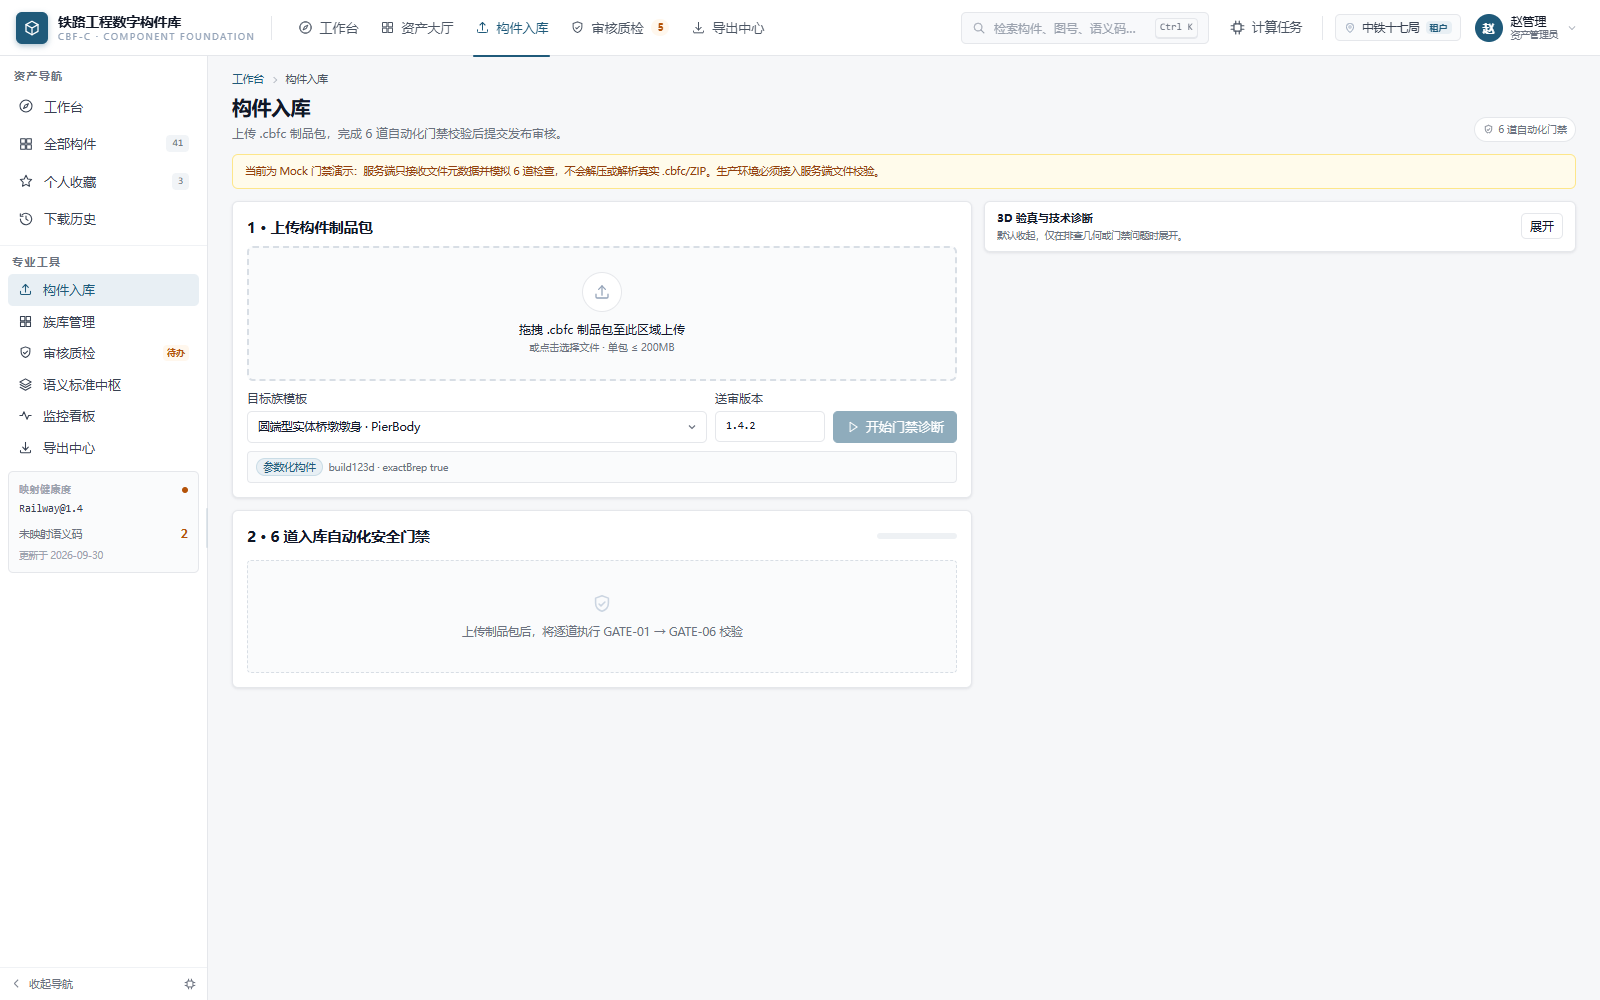
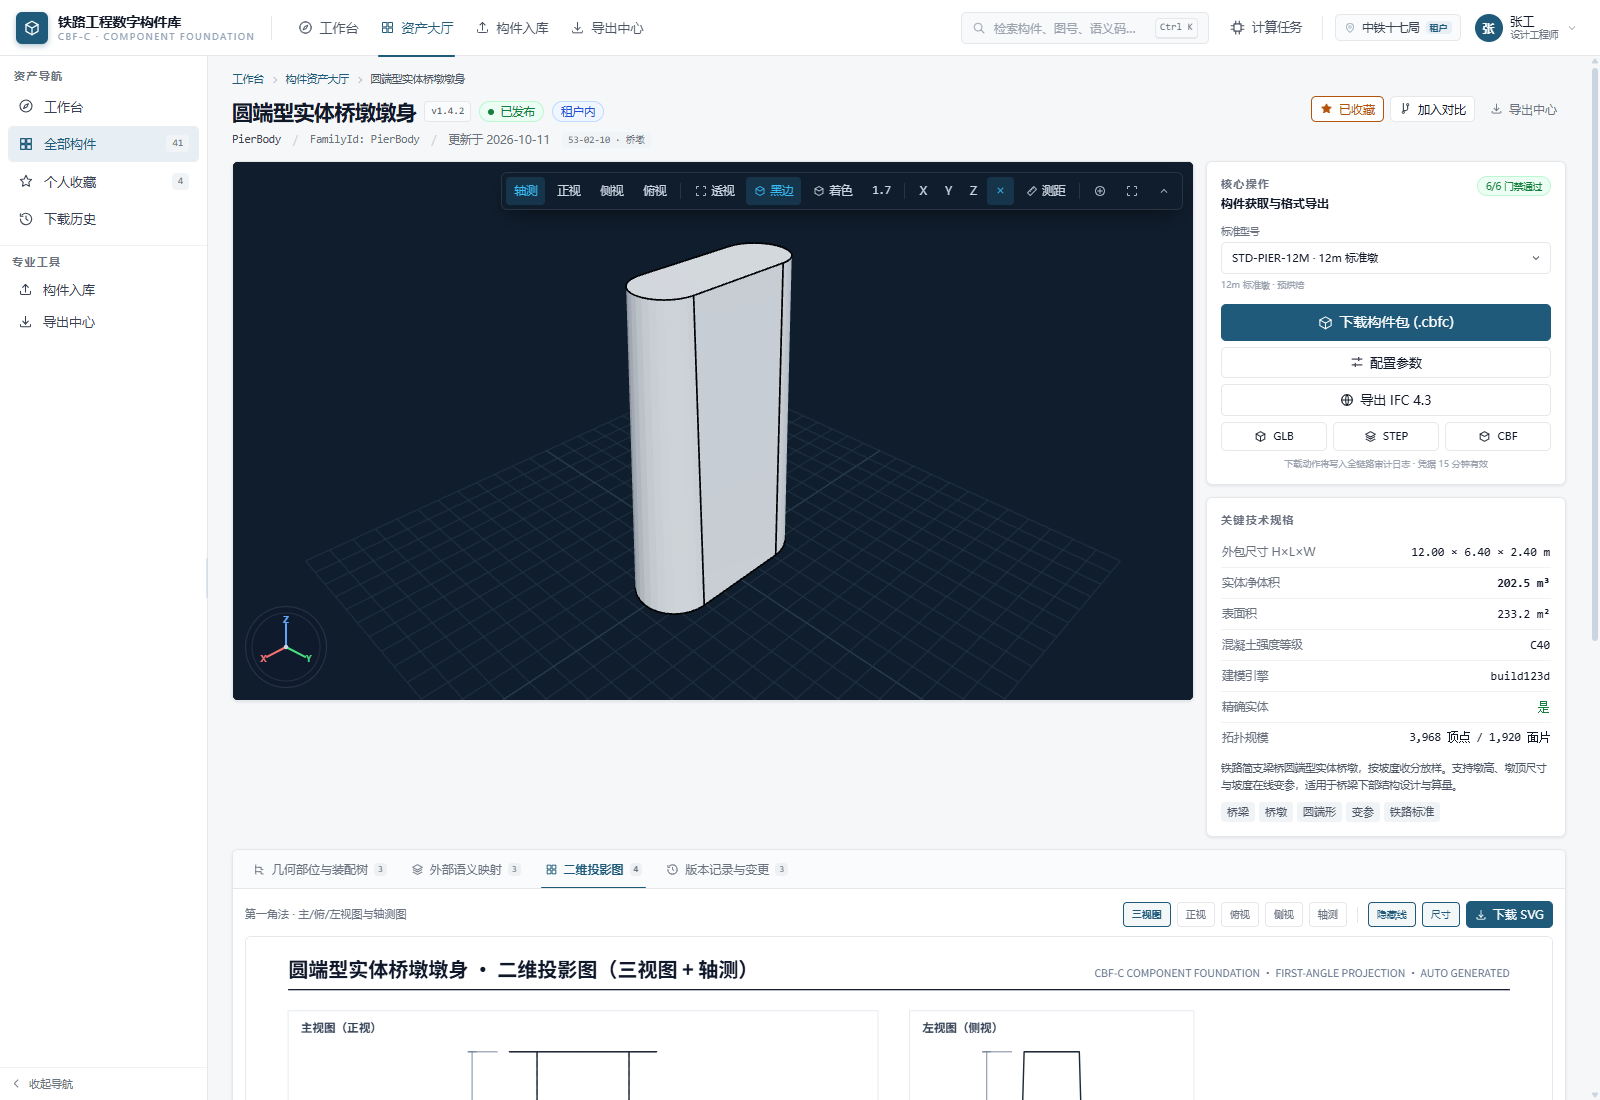
chore(cbfc-web): remove implementation hints from UI copy

diff --git a/cbfc-web/src/views/SemanticsView.vue b/cbfc-web/src/views/SemanticsView.vue
@@ -96,7 +96,7 @@ async function runSandbox() {
     sandboxProfile.value = result.profile;
     sandboxAt.value = result.resolvedAt;
   } catch (error) {
-    ui.notify({ type: 'error', title: '服务端推演失败', message: String(error) });
+    ui.notify({ type: 'error', title: '推演失败', message: String(error) });
   } finally {
     sandboxLoading.value = false;
   }
@@ -118,7 +118,7 @@ async function previewComponent() {
       ui.notify({
         type: 'info',
         title: '权威推演完成',
-        message: `${result.mappings.length} 个部位，${result.unmapped.length} 项 unmapped（由服务端 Resolver 执行）。`,
+        message: `${result.mappings.length} 个部位，${result.unmapped.length} 项 unmapped（由标准解析引擎执行）。`,
       });
     }
   } catch (error) {
@@ -161,7 +161,7 @@ async function commitRules(rules: SemanticProfileRule[]) {
     editing.value = null;
     systemConfirmOpen.value = false;
     await runSandbox();
-    ui.notify({ type: 'success', title: '映射规则已保存', message: `服务端 Resolver 已刷新，当前存在 ${profile.value.unmappedCount} 项 unmapped。` });
+    ui.notify({ type: 'success', title: '映射规则已保存', message: `解析规则已刷新，当前存在 ${profile.value.unmappedCount} 项 unmapped。` });
   } catch (error) {
     ui.notify({ type: 'error', title: '保存失败', message: String(error) });
   } finally {
@@ -399,7 +399,7 @@ watch(
                 </div>
                 <button class="btn btn-primary btn-sm" :disabled="sandboxLoading" @click="previewComponent">
                   <span v-if="sandboxLoading" class="h-3 w-3 animate-spin rounded-full border-2 border-white/30 border-t-white" />
-                  <AppIcon v-else name="play" :size="12" />执行服务端推演
+                  <AppIcon v-else name="play" :size="12" />执行语义推演
                 </button>
                 <button class="btn btn-outline btn-sm" :disabled="sandboxLoading" @click="runSandbox">
                   <AppIcon name="refresh" :size="12" />全量语义码扫描
@@ -533,7 +533,7 @@ watch(
       </div>
       <template #footer>
         <div class="flex items-center justify-between">
-          <p class="text-[9.5px] text-muted">保存后由服务端 Resolver 立即生效</p>
+          <p class="text-[9.5px] text-muted">保存后立即生效</p>
           <div class="flex items-center gap-2">
             <button class="btn btn-ghost btn-sm" @click="editing = null">取消</button>
             <button class="btn btn-primary btn-sm" :disabled="saving" @click="saveRule">

diff --git a/cbfc-web/src/views/ComponentDetailView.vue b/cbfc-web/src/views/ComponentDetailView.vue
@@ -637,11 +637,6 @@ onMounted(async () => {
             >{{ tab.count }}</span>
             <span v-if="activeTab === tab.id" class="absolute inset-x-2 -bottom-px h-[2px] rounded-full bg-primary" />
           </button>
-          <div class="flex-1" />
-          <span class="hidden items-center gap-1 pr-2 text-[9px] text-[#9CA3AF] sm:flex">
-            <AppIcon name="info" :size="10" />
-            全部数据由服务端权威接口返回
-          </span>
         </div>
 
         <!-- Tab 1 -->
@@ -874,7 +869,7 @@ onMounted(async () => {
         <div v-else-if="activeTab === 'projection'" class="p-3">
           <div class="flex flex-wrap items-center justify-between gap-2">
             <p class="text-[11px] text-muted">
-              服务端网格 HLR 消隐投影 · 第一角法 · 主/俯/左视图与轴测图
+              第一角法 · 主/俯/左视图与轴测图
             </p>
             <div class="flex flex-wrap items-center gap-1.5">
               <button
@@ -916,13 +911,6 @@ onMounted(async () => {
               loading="lazy"
             />
           </div>
-          <p class="mt-2 flex flex-wrap items-center gap-x-3 gap-y-1 text-[9.5px] text-[#9CA3AF]">
-            <span>实线 = 可见轮廓</span>
-            <span>虚线 = 消隐轮廓</span>
-            <span>尺寸单位 mm</span>
-            <span>图像上方 = 模型 +Z</span>
-            <span class="mono">生成端点 /projection.svg</span>
-          </p>
         </div>
 
         <!-- Tab 5 -->

diff --git a/cbfc-web/src/views/LoginView.vue b/cbfc-web/src/views/LoginView.vue
@@ -27,7 +27,7 @@ const stats = [
   { value: '24', label: '纳管构件' },
   { value: '6/6', label: '门禁通过' },
   { value: '≤ 300ms', label: '检索 P95' },
-  { value: '100%', label: '零拷贝解码' },
+  { value: '100%', label: '模型解码成功' },
 ];
 
 async function enter(role: string) {
@@ -141,7 +141,7 @@ const currentYear = computed(() => new Date().getFullYear());
           </p>
           <ul class="mt-1.5 space-y-1 text-[9.5px] leading-relaxed text-muted">
             <li>· 无需密码，身份仅用于演示 RBAC 权限边界与差异化工作台。</li>
-            <li>· 构件几何、体积与 cacheKey 均由服务端实时计算，非静态截图。</li>
+            <li>· 构件几何、体积与模型数据均为运行时真实计算，非静态截图。</li>
             <li>· 可在顶栏头像菜单中随时切换身份。</li>
           </ul>
         </div>

diff --git a/cbfc-web/src/views/LibraryView.vue b/cbfc-web/src/views/LibraryView.vue
@@ -576,7 +576,7 @@ function onDrop(event: DragEvent) {
   ui.notify({
     type: 'info',
     title: '已接收几何文件',
-    message: `${file.name}（${(file.size / 1024 / 1024).toFixed(2)} MB）\n外部文件特征提取需 OCCT Worker；当前请选择参考构件执行几何相似检索。`,
+    message: `${file.name}（${(file.size / 1024 / 1024).toFixed(2)} MB）\n外部文件解析暂未开放；当前请选择参考构件执行几何相似检索。`,
   });
 }
 
@@ -932,7 +932,7 @@ onBeforeUnmount(() => {
               @dragleave="dragOver = false"
               @drop.prevent="onDrop"
             >
-              <AppIcon name="upload" :size="11" />拖入 .step/.cbf 需 OCCT Worker
+              <AppIcon name="upload" :size="11" />外部文件解析暂未开放
             </div>
           </div>
 

diff --git a/cbfc-web/src/views/FamiliesView.vue b/cbfc-web/src/views/FamiliesView.vue
@@ -496,7 +496,7 @@ function presetSummary(family: FamilyAdminView, preset: Preset) {
       </div>
       <template #footer>
         <div class="flex items-center justify-between gap-2">
-          <span class="text-[9.5px] text-[#9CA3AF]">保存时服务端重新构建几何、体积与权威缓存键</span>
+          <span class="text-[9.5px] text-[#9CA3AF]">保存时重新计算几何、体积与缓存键</span>
           <div class="flex gap-2">
             <button class="btn btn-outline btn-sm" @click="presetOpen = false">取消</button>
             <button class="btn btn-primary btn-sm" :disabled="busy" @click="savePreset">

diff --git a/cbfc-web/src/components/viewer/CadViewport.vue b/cbfc-web/src/components/viewer/CadViewport.vue
@@ -331,7 +331,7 @@ defineExpose({
             <div class="h-full rounded-full bg-hl transition-all duration-500" :style="{ width: `${Math.max(6, progress)}%` }" />
           </div>
           <div class="mt-1.5 flex items-center justify-between font-mono text-[9.5px] text-[#64748B]">
-            <span>{{ status === 'detached_computing' ? '后台脱机计算' : 'JHB STREAM' }}</span>
+            <span>{{ status === 'detached_computing' ? '后台计算' : '几何求解' }}</span>
             <span>{{ progress }}%</span>
           </div>
         </div>

diff --git a/cbfc-web/src/views/AnalyticsView.vue b/cbfc-web/src/views/AnalyticsView.vue
@@ -204,7 +204,7 @@ onMounted(load);
         <div class="panel p-3.5">
           <div class="flex items-center justify-between">
             <div>
-              <p class="section-title">几何 Worker 求解时延分布</p>
+              <p class="section-title">几何求解时延分布</p>
               <p class="mt-0.5 text-[10.5px] text-muted">条形长度按调用次数 · 标签显示各区间 P95 耗时</p>
             </div>
             <StatusBadge tone="info" label="876 次任务" :dot="false" />

diff --git a/cbfc-web/src/components/export/ExportFlowModal.vue b/cbfc-web/src/components/export/ExportFlowModal.vue
@@ -434,7 +434,7 @@ async function copyChecksum() {
             <button class="btn btn-outline" @click="createTicket">
               <AppIcon name="refresh" :size="13" />重新签发凭据
             </button>
-            <span class="text-[10px] text-muted">直传 TTFB &lt; 500ms · 凭据 15 分钟有效</span>
+            <span class="text-[10px] text-muted">下载凭据 15 分钟有效</span>
           </div>
 
           <div class="rounded-md border border-line bg-[#FAFBFC] p-3">

diff --git a/cbfc-web/src/views/ConfiguratorView.vue b/cbfc-web/src/views/ConfiguratorView.vue
@@ -652,7 +652,7 @@ onBeforeUnmount(() => {
               <span v-if="decoded" class="tag mono">{{ decoded.header.protocolVersion }}</span>
             </div>
             <p class="mt-1.5 text-[9px] leading-relaxed text-[#9CA3AF]">
-              服务端为算键唯一权威源；客户端仅提交业务参数，不参与 cacheKey 计算。
+              参数提交后自动刷新缓存键。
             </p>
           </div>
         </div>
